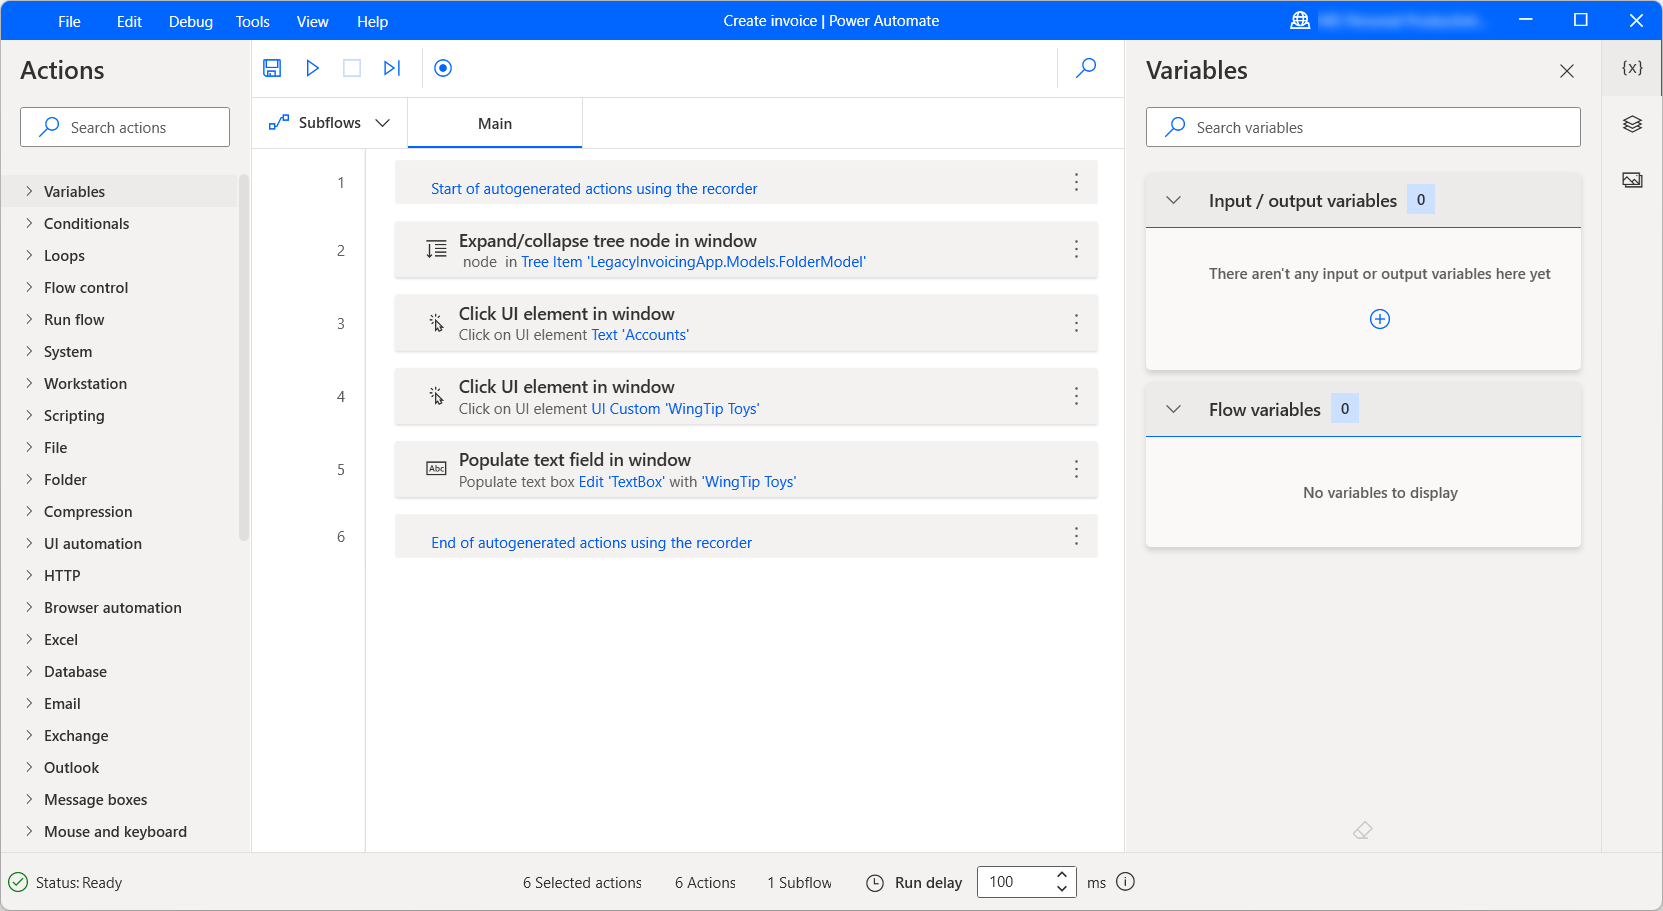
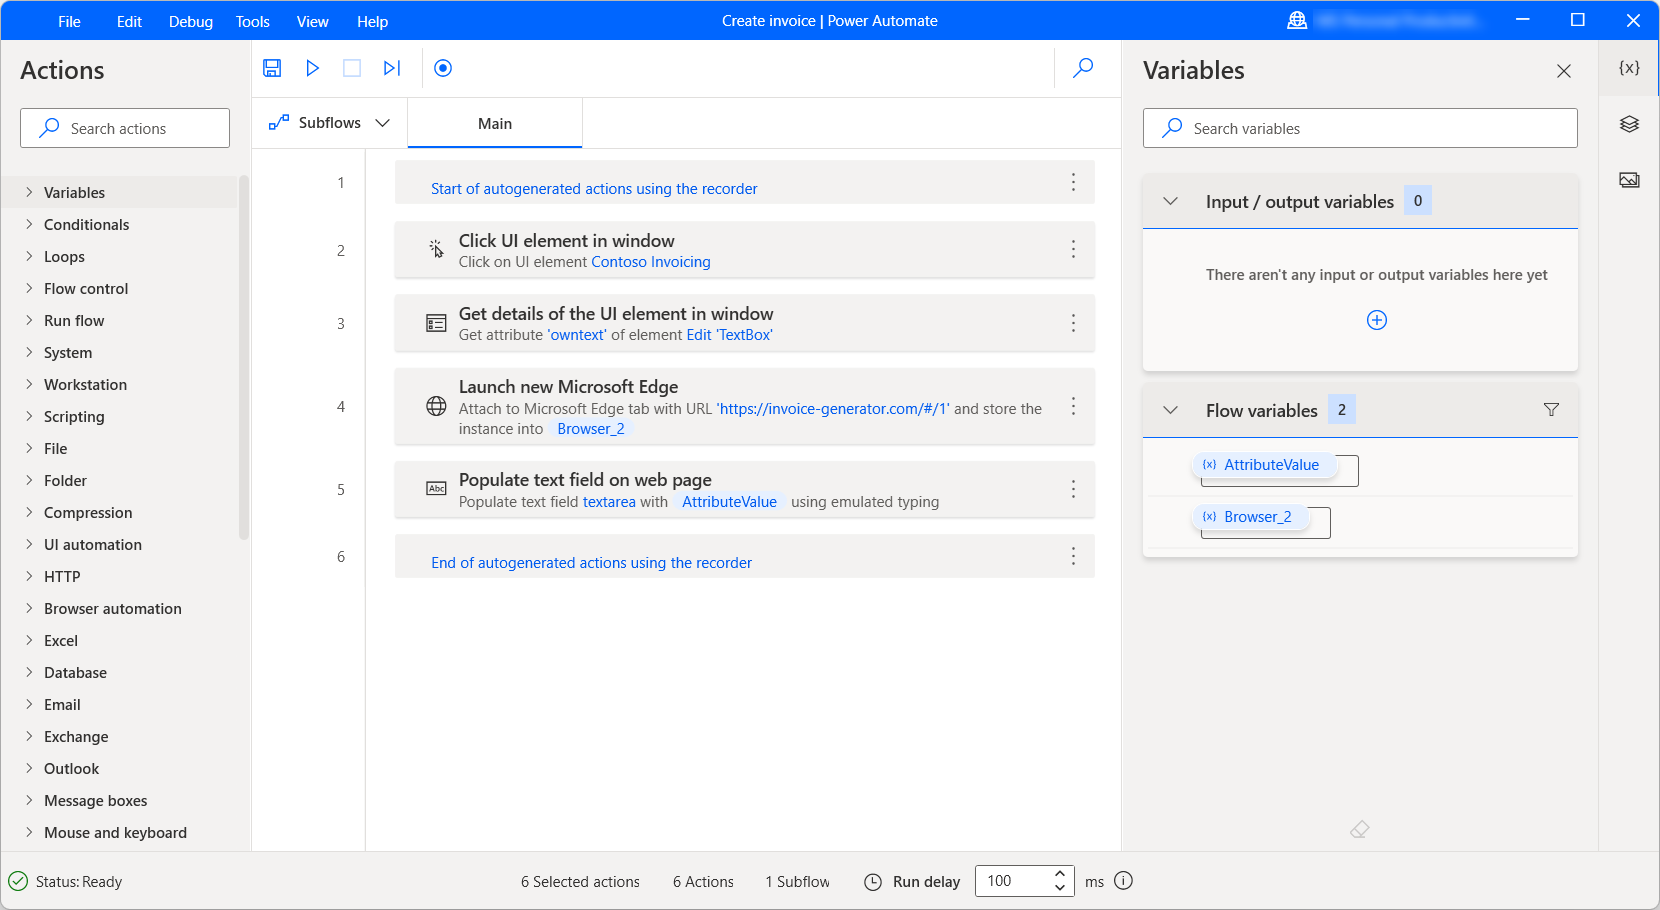
Updated recording flows section

diff --git a/articles/desktop-flows/recording-flow.md b/articles/desktop-flows/recording-flow.md
@@ -30,7 +30,7 @@ To record a flow that automates desktop or/and web applications:
 
     ![Screenshot of the Record button.](./media/recording-flow/record-button.png)
 
-    The recorder keeps track of mouse and keyboard activity in relation to UI elements, and records each action separately.
+    The recorder keeps track of mouse and keyboard activity in relation to UI elements, and records each action separately. During each recorder session, the recorder can generate both UI and browser automation actions.
 
     ![Screenshot of some recorded steps.](./media/recording-flow/recorded-steps.png)
 
@@ -44,11 +44,17 @@ To pause the recording process temporarily, select **Pause**. To add a comment t
 
 ### Launch a web browser
 
-To launch a web browser instance while recording web flows, select the dots icon on the right side of the recorder dialog and then **Launch new web browser**. You can choose between Microsoft Edge, Google Chrome, Mozilla Firefox, and Microsoft Internet Explorer. 
+To launch a web browser instance while recording web flows, you can use three different approaches based on the automation scenario. 
 
-After selecting the proper browser, the recorder will detect automatically the loaded webpage in which the recording takes place. 
+The first method is to select the dots icon on the right side of the recorder dialog and then **Launch new web browser**. You can choose between Microsoft Edge, Google Chrome, Mozilla Firefox, and Microsoft Internet Explorer. 
+
+After selecting the proper browser, the recorder will detect the loaded webpage automatically and configure the launching browsing step accordingly. 
 
 ![Screenshot of the Launch new web browser option.](./media/recording-flow/launch-new-web-browser-option.png)
+
+An alternative way to launch a browser is to start recording in an already open web browser. The recorder will automatically detect the loaded page and will create a launching browser action.
+
+The last method to launch a browser is to manually launch it through its shortcut on the desktop, the start menu, the taskbar, or a folder. If you implement this approach, the recorder will generate UI automation actions that click the browser shortcut and launch it. 
 
 ### Add text using Input Method Editors (IMEs)
 
